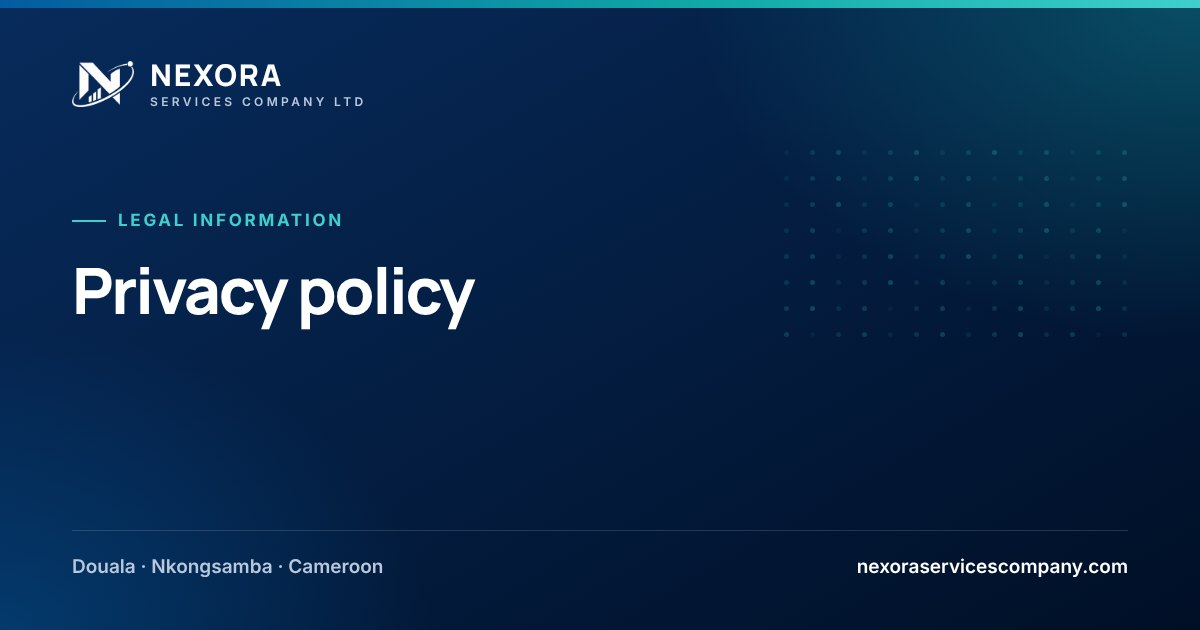
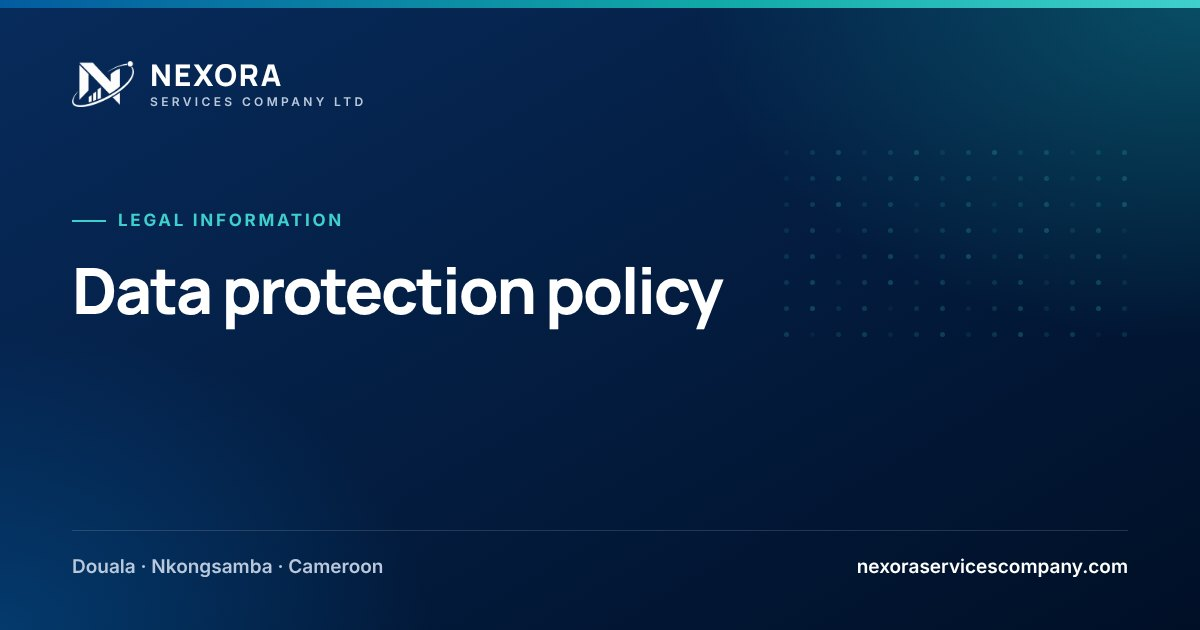
Add data protection, confidentiality and cookie policies, and a one-time cookie notice
Claude-Session: https://claude.ai/code/session_012e1XfnthsJcVzEqrUws3S3

Changed region(s): [[0.0617, 0.4222, 0.6167, 0.5127]]

diff --git a/src/i18n/policies.ts b/src/i18n/policies.ts
@@ -1,0 +1,114 @@
+// Data protection, confidentiality and cookie policies, shown by Prose.astro.
+// Drafts written for the website on 26 October 2026; to be reviewed by a Cameroonian lawyer like NXR-DOC-009 to 016.
+import type { Lang } from './content';
+
+export interface PolicySection { h: string; p?: string[]; list?: string[] }
+export interface Policy { meta: { title: string; description: string }; eyebrow: string; title: string; updated: string; intro?: string; sections: PolicySection[] }
+
+const fr: Record<'privacy' | 'confidentiality' | 'cookies', Policy> = {
+  privacy: {
+    meta: { title: 'Politique de protection des données personnelles · Nexora Services Company Ltd', description: 'Quelles données personnelles Nexora collecte, pourquoi, avec qui elles sont partagées, combien de temps elles sont conservées et comment exercer vos droits.' },
+    eyebrow: 'Informations légales',
+    title: 'Politique de protection des données personnelles',
+    updated: 'Référence NXR-DOC-014 · version 1.1 · mise à jour le 26 octobre 2026',
+    sections: [
+      { h: 'Qui est responsable de vos données', p: ['NEXORA SERVICES COMPANY LTD, RCCM CM-DLA-02-2026-B12-00851, NIU M092618954315E, dont le siège social est situé à Bonabéri, Douala, Cameroun (« Nexora », « nous »), est responsable du traitement des données personnelles qu’elle collecte sur ce site, au comptoir et dans le cadre de ses services.', 'Pour toute question ou demande : contact@nexoraservicescompany.com, ou par courrier adressé au Gérant au siège social.'] },
+      { h: 'Cadre légal', p: ['Nous traitons les données personnelles conformément à la loi camerounaise relative à la protection des données à caractère personnel, à la loi n° 2010/012 du 21 décembre 2010 relative à la cybersécurité et à la cybercriminalité, et aux autres textes applicables. Lorsque nous travaillons avec un partenaire situé dans l’Union européenne, ce partenaire applique en outre le Règlement général sur la protection des données (RGPD).'] },
+      { h: 'Les données collectées sur ce site', list: ['Formulaire « Démarrer une demande » : le besoin et les services choisis, la destination et la période de voyage, le nombre de voyageurs, votre situation, votre profil ou la taille de votre équipe, votre ville, vos délais, votre nom, votre organisation, votre téléphone, votre e-mail, le moyen de contact préféré et votre message.', 'Formulaire de contact : votre nom, votre organisation, votre e-mail, votre téléphone si vous le donnez, le sujet et votre message.', 'Boutons WhatsApp : le message s’ouvre dans votre application WhatsApp ; nous recevons ce que vous choisissez d’envoyer, avec votre numéro.', 'Outils du site : les cases cochées de la liste des documents et la conversation avec l’assistant restent dans votre navigateur et ne nous sont pas transmises (voir la politique relative aux cookies).'], p: ['Nous ne vous demandons jamais votre passeport, vos relevés bancaires ou d’autres pièces sensibles via ce site.'] },
+      { h: 'Les données traitées dans nos services', list: ['les coordonnées des représentants de nos clients ;', 'des informations sur les salariés d’un client lorsque nous fournissons des services RH ;', 'des informations sur les voyageurs : nom, date de naissance, nationalité, passeport, coordonnées et itinéraires ;', 'les documents des demandeurs de visa : état civil, documents professionnels, financiers et de voyage ;', 'les documents confiés au Service Desk pour impression, numérisation, saisie ou candidature en ligne ;', 'les informations de paiement et de facturation.'] },
+      { h: 'Pourquoi et sur quelle base', list: ['répondre à votre demande et préparer une proposition : mesures précontractuelles prises à votre demande ;', 'fournir les services convenus : exécution du contrat ;', 'tenir notre comptabilité et respecter nos obligations fiscales et légales : obligation légale ;', 'assurer la sécurité de nos systèmes et améliorer nos services : intérêt légitime ;', 'vous envoyer des informations sur nos services : uniquement avec votre consentement, retirable à tout moment.'], p: ['Pour les données sensibles, comme les informations de santé figurant dans un dossier de visa, nous demandons votre consentement exprès.'] },
+      { h: 'Avec qui nous les partageons', list: ['les compagnies aériennes, notre partenaire GDS agréé, les hôtels et les assureurs, pour les réservations ;', 'nos partenaires agréés de mobilité, uniquement pour un dossier que vous nous avez demandé de préparer ;', 'nos prestataires d’hébergement, de messagerie, de comptabilité et d’informatique, tenus à la confidentialité ;', 'les autorités publiques, lorsque la loi l’exige.'], p: ['Nous ne déposons aucun document auprès d’une ambassade ou d’un consulat en votre nom sans votre accord écrit. Nous ne vendons ni ne louons jamais de données personnelles.'] },
+      { h: 'Transferts hors du Cameroun', p: ['Ce site est hébergé par Netlify, Inc. aux États-Unis, et les formulaires y sont enregistrés. La réservation de voyages internationaux et la préparation de dossiers pour l’étranger impliquent aussi la communication de données à des compagnies aériennes, systèmes de réservation et partenaires situés hors du Cameroun. Nous ne transmettons que ce qui est nécessaire, à des prestataires reconnus, et prenons des mesures raisonnables pour protéger ces données.'] },
+      { h: 'Comment nous les protégeons', list: ['accès limité aux personnes qui en ont besoin ;', 'mots de passe robustes, gestionnaire de mots de passe et vérification en deux étapes ;', 'ordinateurs chiffrés et sauvegardés, dossiers papier sous clé ;', 'aucune conservation des passeports originaux ;', 'fichiers du Service Desk supprimés après chaque travail, sauf demande contraire de votre part ;', 'aucune donnée client dans un outil d’IA public sans accord et garanties appropriées, et une revue humaine de tout travail assisté par l’IA ;', 'un personnel tenu à la confidentialité et à notre Code de conduite.'] },
+      { h: 'Durée de conservation', list: ['demandes reçues via le site sans suite : 12 mois au maximum ;', 'documents des clients : la durée de la mission, puis restitution ou suppression ;', 'copies des documents de visa : supprimées dans les 90 jours suivant la fin du service, sauf demande contraire de votre part ;', 'pièces comptables et factures : la durée imposée par la loi comptable et fiscale.'] },
+      { h: 'Vos droits', p: ['Vous pouvez demander l’accès à vos données, leur rectification, leur effacement ou la limitation de leur utilisation, vous opposer à leur traitement et retirer votre consentement à tout moment. Écrivez-nous à contact@nexoraservicescompany.com en précisant votre demande ; nous pourrons vous demander de justifier de votre identité. Nous répondons dans un délai de 30 jours.', 'Si vous estimez que vos droits ne sont pas respectés, vous pouvez saisir l’autorité camerounaise compétente en matière de protection des données personnelles.'] },
+      { h: 'Mineurs', p: ['Nos services s’adressent aux adultes. Pour un projet d’études concernant une personne mineure, nous travaillons avec ses parents ou son représentant légal, qui donnent leur accord écrit.'] },
+      { h: 'Incidents et modifications', p: ['Si un incident de sécurité affecte vos données, nous vous en informons rapidement et le notifions aux autorités lorsque la loi l’exige. Nous pouvons mettre à jour cette politique ; la version en vigueur et sa date sont publiées sur cette page.'] },
+    ],
+  },
+  confidentiality: {
+    meta: { title: 'Politique de confidentialité des informations clients · Nexora Services Company Ltd', description: 'Comment Nexora protège les informations commerciales, financières et personnelles que ses clients lui confient.' },
+    eyebrow: 'Informations légales',
+    title: 'Politique de confidentialité des informations clients',
+    updated: 'Version 1.0 · en vigueur depuis le 26 octobre 2026',
+    sections: [
+      { h: 'Notre engagement', p: ['Nos clients nous confient des informations sur leur entreprise, leurs équipes, leurs finances ou leur projet personnel. Nous les traitons avec la même discrétion qu’un cabinet de conseil : elles servent uniquement à la mission pour laquelle elles nous ont été remises.'] },
+      { h: 'Ce qui est confidentiel', list: ['les informations sur votre activité, votre stratégie, vos clients et vos fournisseurs ;', 'vos données financières, comptables et fiscales ;', 'les dossiers du personnel, les rémunérations et les évaluations ;', 'les documents de voyage, d’études et de visa ;', 'nos échanges, propositions et livrables ;', 'les documents confiés au Service Desk.'], p: ['Toute information non publique que vous nous transmettez est considérée comme confidentielle, qu’elle soit marquée ou non.'] },
+      { h: 'Comment nous la protégeons', list: ['utilisation uniquement pour la mission convenue ;', 'accès réservé aux personnes de Nexora qui travaillent sur votre dossier ;', 'aucune communication à un tiers sans votre accord écrit ;', 'aucune mention de votre nom comme référence sans votre autorisation ;', 'aucune information confidentielle dans un outil d’IA non approuvé ;', 'stockage sur des outils sécurisés, dossiers papier sous clé.'] },
+      { h: 'Nos équipes et partenaires', p: ['Nos associés, salariés et collaborateurs sont tenus au secret par leur contrat et par notre Code de conduite. Lorsqu’un partenaire agréé ou un sous-traitant doit intervenir, il ne reçoit que les informations nécessaires et s’engage à les protéger dans les mêmes conditions.'] },
+      { h: 'Accord de confidentialité', p: ['Nous signons volontiers un accord de confidentialité avant tout échange d’informations sensibles. Demandez-le lors de votre premier contact.'] },
+      { h: 'Conflits d’intérêts', p: ['Si une mission risque de créer un conflit d’intérêts avec un autre client ou avec nos dirigeants, nous vous en informons avant de commencer et nous ne travaillons qu’avec votre accord.'] },
+      { h: 'Limites', p: ['L’obligation de confidentialité ne s’applique pas aux informations déjà publiques, ni à celles que la loi, une décision de justice ou une autorité nous oblige à communiquer. Dans ce cas, nous ne transmettons que le strict nécessaire et vous prévenons lorsque la loi le permet.'] },
+      { h: 'Fin de mission', p: ['À la fin de la mission, nous vous restituons vos documents ou les supprimons, selon votre choix, à l’exception de ce que la loi nous oblige à conserver. L’obligation de confidentialité continue après la fin de la mission.'] },
+      { h: 'Un incident ?', p: ['Si vous pensez qu’une information confidentielle a été divulguée, écrivez-nous à contact@nexoraservicescompany.com. Nous enquêtons, prenons les mesures nécessaires et vous tenons informé.'] },
+    ],
+  },
+  cookies: {
+    meta: { title: 'Politique relative aux cookies · Nexora Services Company Ltd', description: 'Ce que le site de Nexora enregistre dans votre navigateur, et pourquoi : uniquement le nécessaire, sans publicité ni suivi.' },
+    eyebrow: 'Informations légales',
+    title: 'Politique relative aux cookies',
+    updated: 'Version 1.0 · en vigueur depuis le 26 octobre 2026',
+    sections: [
+      { h: 'En bref', p: ['Ce site n’utilise ni cookies publicitaires, ni outils de suivi, ni mesure d’audience, ni réseaux sociaux intégrés. Il enregistre seulement quelques informations dans votre navigateur pour fonctionner correctement. Rien de tout cela ne nous est transmis.'] },
+      { h: 'Ce que le site enregistre', list: ['Votre choix concernant ce message (« nexora-consent ») : pour ne pas vous le montrer à chaque visite. Conservé jusqu’à ce que vous effaciez les données de votre navigateur.', 'Les pièces cochées dans la liste des documents de voyage (« nexora-ck-… ») : pour retrouver votre progression. Conservées dans votre navigateur jusqu’à ce que vous les effaciez.', 'La conversation avec l’assistant d’aide : effacée à la fermeture de l’onglet.'] },
+      { h: 'Services tiers', p: ['Les polices de caractères sont hébergées sur notre propre site. Les boutons WhatsApp ouvrent WhatsApp seulement lorsque vous cliquez dessus ; WhatsApp applique alors sa propre politique. Notre hébergeur, Netlify, peut enregistrer des journaux techniques (adresse IP, page demandée) pour la sécurité et le bon fonctionnement du site.'] },
+      { h: 'Gérer ces informations', p: ['Vous pouvez effacer à tout moment les données enregistrées par ce site dans les réglages de votre navigateur (rubrique « Cookies et données de site »). Le site continue de fonctionner ; le message d’information réapparaîtra simplement à votre prochaine visite.'] },
+      { h: 'Évolutions', p: ['Si nous ajoutons un jour un outil de mesure d’audience ou un autre service non indispensable, nous mettrons à jour cette page et vous demanderons votre accord avant de l’activer.'] },
+    ],
+  },
+};
+
+const en: typeof fr = {
+  privacy: {
+    meta: { title: 'Data protection policy · Nexora Services Company Ltd', description: 'What personal data Nexora collects, why, who it is shared with, how long it is kept and how to exercise your rights.' },
+    eyebrow: 'Legal information',
+    title: 'Data protection policy',
+    updated: 'Reference NXR-DOC-014 · version 1.1 · updated 26 October 2026',
+    sections: [
+      { h: 'Who is responsible for your data', p: ['NEXORA SERVICES COMPANY LTD, RCCM CM-DLA-02-2026-B12-00851, NIU M092618954315E, registered office in Bonabéri, Douala, Cameroon ("Nexora", "we"), is the controller of the personal data it collects on this website, at its counter and in providing its services.', 'For any question or request: contact@nexoraservicescompany.com, or by post to the Statutory Manager at the registered office.'] },
+      { h: 'Legal framework', p: ['We handle personal data in line with Cameroon’s law on the protection of personal data, Law No. 2010/012 of 21 December 2010 on cybersecurity and cybercrime, and other applicable rules. When we work with a partner based in the European Union, that partner also applies the General Data Protection Regulation (GDPR).'] },
+      { h: 'Data collected on this website', list: ['"Start a request" form: your need and chosen services, destination and travel period, number of travellers, your situation, your profile or team size, your city, your timing, your name, organisation, phone, email, preferred contact channel and message.', 'Contact form: your name, organisation, email, phone if you give it, topic and message.', 'WhatsApp buttons: the message opens in your WhatsApp app; we receive what you choose to send, with your number.', 'Site tools: the items you tick in the document checklist and your conversation with the assistant stay in your browser and are not sent to us (see the cookie policy).'], p: ['We never ask for your passport, bank statements or other sensitive documents through this website.'] },
+      { h: 'Data handled in our services', list: ['contact details of client representatives;', 'information about a client’s employees when we provide HR services;', 'traveller information: name, date of birth, nationality, passport details, contact details and itineraries;', 'visa applicants’ documents: civil-status, professional, financial and travel documents;', 'documents handed to the Service Desk for printing, scanning, typing or online applications;', 'payment and billing information.'] },
+      { h: 'Why, and on what basis', list: ['answering your request and preparing a proposal: steps taken at your request before a contract;', 'providing the agreed services: performance of the contract;', 'keeping our accounts and meeting tax and legal duties: legal obligation;', 'keeping our systems secure and improving our services: legitimate interest;', 'sending you information about our services: only with your consent, which you can withdraw at any time.'], p: ['For sensitive data, such as health information in a visa file, we ask for your explicit consent.'] },
+      { h: 'Who we share it with', list: ['airlines, our licensed GDS partner, hotels and insurers, to make and manage bookings;', 'our licensed mobility partners, only for a file you asked us to prepare;', 'our hosting, email, accounting and IT providers, bound by confidentiality;', 'public authorities, where the law requires.'], p: ['We never submit documents to an embassy or consulate on your behalf without your written agreement. We never sell or rent personal data.'] },
+      { h: 'Transfers outside Cameroon', p: ['This website is hosted by Netlify, Inc. in the United States, where form submissions are stored. International travel bookings and files prepared for other countries also involve sharing data with airlines, booking systems and partners outside Cameroon. We share only what is needed, with recognised providers, and take reasonable steps to protect the data.'] },
+      { h: 'How we protect it', list: ['access limited to people who need it;', 'strong passwords, a password manager and two-step verification;', 'encrypted, backed-up computers and locked paper files;', 'no original client passports are kept;', 'Service Desk files deleted after every job, unless you ask us to keep them;', 'no client data in a public AI tool without consent and safeguards, and human review of all AI-assisted work;', 'staff bound by confidentiality and our Code of Conduct.'] },
+      { h: 'Retention', list: ['website requests that lead to no engagement: 12 months at most;', 'client documents: for the engagement, then returned or deleted;', 'copies of visa documents: deleted within 90 days after the service ends, unless you ask us to keep them;', 'accounting records and invoices: for the period required by accounting and tax law.'] },
+      { h: 'Your rights', p: ['You can ask to access, correct or delete your data, or to restrict its use, object to its processing and withdraw your consent at any time. Write to contact@nexoraservicescompany.com with your request; we may ask you to confirm your identity. We respond within 30 days.', 'If you believe your rights are not respected, you can contact the competent Cameroonian personal data protection authority.'] },
+      { h: 'Minors', p: ['Our services are for adults. For a study project involving a minor, we work with the parents or legal guardian, who give their written agreement.'] },
+      { h: 'Incidents and changes', p: ['If a security incident affects your data, we will inform you promptly and notify the authorities where the law requires. We may update this policy; the current version and its date are published on this page.'] },
+    ],
+  },
+  confidentiality: {
+    meta: { title: 'Client confidentiality policy · Nexora Services Company Ltd', description: 'How Nexora protects the business, financial and personal information its clients entrust to it.' },
+    eyebrow: 'Legal information',
+    title: 'Client confidentiality policy',
+    updated: 'Version 1.0 · effective 26 October 2026',
+    sections: [
+      { h: 'Our commitment', p: ['Clients trust us with information about their business, their teams, their finances or their personal plans. We treat it with the discretion of a consultancy: it is used only for the engagement it was given to us for.'] },
+      { h: 'What is confidential', list: ['information about your business, strategy, customers and suppliers;', 'your financial, accounting and tax data;', 'staff files, pay and appraisals;', 'travel, study and visa documents;', 'our conversations, proposals and deliverables;', 'documents handed to the Service Desk.'], p: ['Any non-public information you give us is treated as confidential, whether or not it is marked as such.'] },
+      { h: 'How we protect it', list: ['used only for the agreed engagement;', 'access limited to the Nexora people working on your file;', 'never shared with a third party without your written agreement;', 'your name is never used as a reference without your permission;', 'no confidential information in an unapproved AI tool;', 'stored on secure tools, paper files under lock.'] },
+      { h: 'Our people and partners', p: ['Our partners, employees and associates are bound to secrecy by their contracts and our Code of Conduct. When a licensed partner or subcontractor needs to be involved, they receive only the information they need and commit to protecting it on the same terms.'] },
+      { h: 'Confidentiality agreement', p: ['We are happy to sign a confidentiality agreement before any sensitive information is exchanged. Ask for it at your first contact.'] },
+      { h: 'Conflicts of interest', p: ['If an engagement could create a conflict of interest with another client or with our directors, we tell you before starting and proceed only with your agreement.'] },
+      { h: 'Limits', p: ['Confidentiality does not cover information that is already public, or information that the law, a court or an authority requires us to disclose. In that case we disclose only what is strictly needed and tell you where the law allows.'] },
+      { h: 'End of the engagement', p: ['At the end of the engagement, we return or delete your documents, as you choose, except what the law requires us to keep. Our duty of confidentiality continues after the engagement ends.'] },
+      { h: 'Something went wrong?', p: ['If you think confidential information has been disclosed, write to contact@nexoraservicescompany.com. We will investigate, take the necessary steps and keep you informed.'] },
+    ],
+  },
+  cookies: {
+    meta: { title: 'Cookie policy · Nexora Services Company Ltd', description: 'What Nexora’s website stores in your browser, and why: only what is needed, with no advertising or tracking.' },
+    eyebrow: 'Legal information',
+    title: 'Cookie policy',
+    updated: 'Version 1.0 · effective 26 October 2026',
+    sections: [
+      { h: 'In short', p: ['This website uses no advertising cookies, no tracking, no audience measurement and no embedded social networks. It only stores a few items in your browser so that it works properly. None of this is sent to us.'] },
+      { h: 'What the website stores', list: ['Your choice on this notice ("nexora-consent"): so we do not show it at every visit. Kept until you clear your browser data.', 'The items you tick in the travel document checklist ("nexora-ck-…"): so you can pick up where you left off. Kept in your browser until you clear them.', 'Your conversation with the help assistant: deleted when you close the tab.'] },
+      { h: 'Third-party services', p: ['Fonts are served from our own website. WhatsApp buttons open WhatsApp only when you click them; WhatsApp’s own policy then applies. Our host, Netlify, may keep technical logs (IP address, page requested) for security and to run the website.'] },
+      { h: 'Managing this information', p: ['You can clear the data this website stores at any time in your browser settings (under "Cookies and site data"). The website keeps working; the notice will simply appear again on your next visit.'] },
+      { h: 'Changes', p: ['If we ever add audience measurement or another non-essential service, we will update this page and ask for your agreement before turning it on.'] },
+    ],
+  },
+};
+
+export const policies: Record<Lang, typeof fr> = { fr, en };

diff --git a/src/i18n/pages.ts b/src/i18n/pages.ts
@@ -203,26 +203,8 @@ const fr = {
       { h: 'Hébergement', p: ['Le site est hébergé par Netlify, Inc., San Francisco, Californie, États-Unis (netlify.com).'] },
       { h: 'Propriété intellectuelle', p: ['Les textes, visuels, logos et la marque Nexora présents sur ce site appartiennent à NEXORA SERVICES COMPANY LTD. Toute reproduction sans autorisation écrite préalable est interdite.'] },
       { h: 'Responsabilité', p: ['Les informations de ce site sont fournies à titre général et peuvent évoluer. Elles ne constituent ni une offre ferme ni un conseil personnalisé. Les conditions de chaque mission sont fixées par écrit avec le client.', 'Nexora ne garantit ni visa, ni emploi, ni permis, ni décision d’immigration. Les services réglementés sont assurés par des partenaires agréés ou après les formalités légales applicables.'] },
-      { h: 'Données personnelles', p: ['Le traitement des données transmises via ce site est décrit dans notre politique de confidentialité.'] },
+      { h: 'Données personnelles', p: ['Le traitement des données transmises via ce site est décrit dans notre politique de protection des données personnelles, et l’usage du stockage de navigateur dans notre politique relative aux cookies.'] },
       { h: 'Droit applicable', p: ['Le présent site est soumis au droit camerounais et aux Actes uniformes de l’OHADA applicables.'] },
-    ],
-  },
-  privacy: {
-    meta: { title: 'Politique de confidentialité · Nexora Services Company Ltd', description: 'Comment Nexora protège les données personnelles qui lui sont confiées.' },
-    eyebrow: 'Informations légales',
-    title: 'Politique de confidentialité',
-    updated: 'Référence NXR-DOC-014 · version 1.0 · en vigueur depuis le 10 octobre 2026',
-    sections: [
-      { h: 'Qui nous sommes', p: ['NEXORA SERVICES COMPANY LTD, RCCM CM-DLA-02-2026-B12-00851, siège social à Bonabéri, Douala, Cameroun (« Nexora », « nous »), est responsable des données personnelles qu’elle collecte dans le cadre de ses services.', 'Vos questions et demandes peuvent être adressées par écrit au Gérant au siège social, ou à contact@nexoraservicescompany.com.'] },
-      { h: 'Ce site internet', p: ['Le formulaire de contact recueille votre nom, votre organisation, votre e-mail, votre téléphone si vous le donnez, le sujet et votre message, uniquement pour répondre à votre demande.', 'Ce site n’utilise ni cookies publicitaires, ni outils de suivi, ni outils de mesure d’audience. Les polices sont hébergées sur notre propre site.'] },
-      { h: 'Les données que nous traitons', list: ['les coordonnées des représentants de nos clients ;', 'des informations sur les salariés d’un client lorsque nous fournissons des services RH ;', 'des informations sur les voyageurs : nom, date de naissance, nationalité, passeport, coordonnées et itinéraires ;', 'les documents des demandeurs de visa : état civil, documents professionnels, financiers et de voyage ;', 'les informations de paiement et de facturation.'] },
-      { h: 'Pourquoi nous les utilisons', list: ['fournir les services convenus avec vous ;', 'respecter nos obligations légales, notamment comptables et fiscales ;', 'gérer notre relation avec vous et assurer la sécurité de nos systèmes ;', 'vous envoyer des informations sur nos services, uniquement si vous l’avez accepté.'], p: ['Nous demandons votre consentement lorsque la loi l’exige, en particulier pour les informations sensibles.'] },
-      { h: 'Avec qui nous les partageons', list: ['les compagnies aériennes, notre partenaire GDS agréé, les hôtels et les assureurs, pour les réservations ;', 'nos prestataires informatiques, d’hébergement, comptables et autres, tenus à la confidentialité ;', 'les autorités publiques, lorsque la loi l’exige.'], p: ['Nous ne déposons pas de documents auprès des ambassades ou consulats en votre nom sans accord écrit. Nous ne vendons jamais de données personnelles.'] },
-      { h: 'Transferts hors du Cameroun', p: ['La réservation de voyages internationaux implique la communication de données à des compagnies aériennes et systèmes de réservation situés hors du Cameroun. Certains de nos outils, dont l’hébergement de ce site, peuvent stocker des données hors du Cameroun. Nous choisissons des prestataires reconnus et prenons des mesures raisonnables pour protéger les données.'] },
-      { h: 'Comment nous les protégeons', list: ['accès limité aux personnes qui en ont besoin ;', 'mots de passe robustes, gestionnaire de mots de passe et vérification en deux étapes ;', 'ordinateurs chiffrés et sauvegardés, dossiers papier sous clé ;', 'aucune conservation des passeports originaux ;', 'aucune donnée client dans des outils publics d’IA sans accord et garanties appropriées, et une revue humaine de tout travail assisté par l’IA ;', 'un personnel tenu à la confidentialité et à notre Code de conduite.'] },
-      { h: 'Durée de conservation', p: ['Nous conservons les données uniquement le temps nécessaire au service et à nos obligations légales. Les copies des documents de visa sont supprimées dans les 90 jours suivant la fin du service, sauf demande contraire de votre part. Les données RH des clients sont restituées ou supprimées à la fin de la mission.'] },
-      { h: 'Vos droits', p: ['Sous réserve de la loi applicable, vous pouvez demander l’accès à vos données, leur rectification ou leur suppression, vous opposer à leur utilisation et retirer votre consentement à tout moment. Nous répondons dans un délai de 30 jours.'] },
-      { h: 'Incidents et modifications', p: ['Si un incident de sécurité affecte vos données, nous vous en informons rapidement et le notifions aux autorités lorsque la loi l’exige. Nous pouvons mettre à jour cette politique ; la version en vigueur est publiée sur cette page.'] },
     ],
   },
   notFound: { title: 'Page introuvable', text: 'Cette page n’existe pas ou a été déplacée.', back: 'Retour à l’accueil' },
@@ -429,26 +411,8 @@ const en: typeof fr = {
       { h: 'Hosting', p: ['This website is hosted by Netlify, Inc., San Francisco, California, United States (netlify.com).'] },
       { h: 'Intellectual property', p: ['The text, visuals, logos and the Nexora brand on this website belong to NEXORA SERVICES COMPANY LTD. Reproduction without prior written permission is prohibited.'] },
       { h: 'Liability', p: ['Information on this website is general and may change. It is neither a binding offer nor personalised advice. The terms of each engagement are agreed in writing with the client.', 'Nexora does not guarantee visas, jobs, permits or immigration outcomes. Regulated services are delivered through licensed partners or only after the applicable legal formalities.'] },
-      { h: 'Personal data', p: ['How we handle data sent through this website is described in our privacy policy.'] },
+      { h: 'Personal data', p: ['How we handle data sent through this website is described in our data protection policy, and browser storage in our cookie policy.'] },
       { h: 'Governing law', p: ['This website is governed by Cameroonian law and the applicable OHADA Uniform Acts.'] },
-    ],
-  },
-  privacy: {
-    meta: { title: 'Privacy policy · Nexora Services Company Ltd', description: 'How Nexora protects the personal data entrusted to it.' },
-    eyebrow: 'Legal information',
-    title: 'Privacy policy',
-    updated: 'Reference NXR-DOC-014 · version 1.0 · effective 10 October 2026',
-    sections: [
-      { h: 'Who we are', p: ['NEXORA SERVICES COMPANY LTD, RCCM CM-DLA-02-2026-B12-00851, registered office in Bonabéri, Douala, Cameroon ("Nexora", "we"), is responsible for the personal data it collects in providing its services.', 'Questions and requests can be sent in writing to the Statutory Manager at the registered office, or to contact@nexoraservicescompany.com.'] },
-      { h: 'This website', p: ['The contact form collects your name, organisation, email, phone if you give it, topic and message, only to answer your request.', 'This website uses no advertising cookies, no tracking and no audience-measurement tools. Fonts are served from our own site.'] },
-      { h: 'Data we handle', list: ['contact details of client representatives;', 'information about a client’s employees when we provide HR services;', 'traveller information: name, date of birth, nationality, passport details, contact details and itineraries;', 'visa applicants’ documents: civil-status, professional, financial and travel documents;', 'payment and billing information.'] },
-      { h: 'Why we use it', list: ['to provide the services agreed with you;', 'to meet our legal obligations, including accounting and tax;', 'to manage our relationship with you and keep our systems secure;', 'to send you information about our services, only if you agreed.'], p: ['We ask for your consent where the law requires it, especially for sensitive information.'] },
-      { h: 'Who we share it with', list: ['airlines, our licensed GDS partner, hotels and insurers, to make and manage bookings;', 'our IT, hosting, accounting and other providers, bound by confidentiality;', 'public authorities, where the law requires.'], p: ['We do not submit documents to embassies or consulates on your behalf without written agreement. We never sell personal data.'] },
-      { h: 'Transfers outside Cameroon', p: ['International travel bookings involve sharing traveller data with airlines and booking systems outside Cameroon. Some of our tools, including this website’s hosting, may store data outside Cameroon. We choose recognised providers and take reasonable steps to protect the data.'] },
-      { h: 'How we protect it', list: ['access limited to people who need it;', 'strong passwords, a password manager and two-step verification;', 'encrypted, backed-up computers and locked paper files;', 'no original client passports are kept;', 'no client data in public AI tools without consent and safeguards, and human review of all AI-assisted work;', 'staff bound by confidentiality and our Code of Conduct.'] },
-      { h: 'Retention', p: ['We keep data only as long as the service and our legal obligations require. Copies of visa documents are deleted within 90 days after the service ends unless you ask us to keep them longer. Client HR data is returned or deleted at the end of the engagement.'] },
-      { h: 'Your rights', p: ['Subject to applicable law, you can ask to access, correct or delete your data, object to its use and withdraw consent at any time. We respond within 30 days.'] },
-      { h: 'Incidents and changes', p: ['If a security incident affects your data, we will inform you promptly and notify the authorities where the law requires. We may update this policy; the current version is published on this page.'] },
     ],
   },
   notFound: { title: 'Page not found', text: 'This page does not exist or has moved.', back: 'Back to home' },

diff --git a/src/lib/assistant.ts b/src/lib/assistant.ts
@@ -55,7 +55,8 @@ const defs: IntentDef[] = [
   { id: 'request', kw: ['demande', 'commencer', 'demarrer', 'start', 'begin', 'besoin', 'need', 'aide', 'help me'], a: tx('Le plus simple est notre parcours guidé : quatre questions, puis vous envoyez votre demande par WhatsApp ou par formulaire.', 'The easiest way is our guided request: four questions, then you send it by WhatsApp or through the form.'), acts: [A.start()], chips: ['human'] },
   { id: 'about', kw: ['qui etes', 'qui est', 'about', 'who are you', 'fondateur', 'fondateurs', 'founder', 'founders', 'directeur', 'director', 'equipe', 'team'], a: tx('NEXORA SERVICES COMPANY LTD est un cabinet de transformation des entreprises basé à Douala et Nkongsamba, dirigé par ses fondateurs, Achu Ngando Fabrice (directeur général) et Mancho Tebo Salif (développement commercial et partenariats).', 'NEXORA SERVICES COMPANY LTD is a business transformation consultancy based in Douala and Nkongsamba, led by its founders, Achu Ngando Fabrice (Managing Director) and Mancho Tebo Salif (Business Development and Partnerships).'), acts: [A.page('about', 'À propos de Nexora', 'About Nexora')], chips: ['services'] },
   { id: 'ai', kw: ['ia', 'intelligence artificielle', 'ai', 'artificial intelligence', 'chatgpt', 'robot', 'bot'], a: tx('Nous utilisons l’IA quand elle fait gagner du temps sans risque, et aidons les organisations à l’adopter de façon responsable. Tout travail assisté par l’IA est revu par une personne responsable. Et oui, je suis moi-même un assistant automatique : pour un conseil personnalisé, un conseiller vous répond sur WhatsApp.', 'We use AI where it saves time safely, and help organisations adopt it responsibly. All AI-assisted work is reviewed by a responsible person. And yes, I am an automated assistant myself: for personal advice, an advisor answers on WhatsApp.'), acts: [A.wa], chips: ['business'] },
-  { id: 'confidential', kw: ['confidentiel', 'confidentialite', 'confidential', 'donnees', 'data', 'privacy', 'nda', 'secret'], a: tx('Vos informations restent confidentielles : accord de confidentialité si vous le souhaitez, accès limité aux documents et restitution des données en fin de mission.', 'Your information stays confidential: a confidentiality agreement if you wish, limited document access and data returned at the end of the engagement.'), acts: [A.page('privacy', 'Politique de confidentialité', 'Privacy policy')] },
+  { id: 'confidential', kw: ['confidentiel', 'confidentialite', 'confidential', 'confidentiality', 'donnees', 'donnees personnelles', 'data', 'personal data', 'protection des donnees', 'data protection', 'privacy', 'rgpd', 'gdpr', 'nda', 'secret'], a: tx('Vos informations restent confidentielles : elles servent uniquement à votre mission, l’accès est limité aux personnes qui y travaillent, nous signons un accord de confidentialité si vous le souhaitez et nous restituons ou supprimons vos documents à la fin. Vous pouvez demander l’accès à vos données ou leur suppression à tout moment.', 'Your information stays confidential: it is used only for your engagement, access is limited to the people working on it, we sign a confidentiality agreement if you wish, and we return or delete your documents at the end. You can ask to access or delete your data at any time.'), acts: [A.page('confidentiality', 'Politique de confidentialité', 'Confidentiality policy'), A.page('privacy', 'Protection des données', 'Data protection policy')] },
+  { id: 'cookies', kw: ['cookie', 'cookies', 'traceur', 'traceurs', 'tracking', 'suivi', 'pistage'], a: tx('Ce site n’utilise ni cookies publicitaires ni outils de suivi. Il garde seulement dans votre navigateur votre choix sur le message d’information, votre progression dans la liste des documents et cette conversation, qui s’efface à la fermeture de l’onglet.', 'This website uses no advertising cookies or tracking. It only keeps in your browser your choice on the notice, your checklist progress and this conversation, which is deleted when you close the tab.'), acts: [A.page('cookies', 'Politique relative aux cookies', 'Cookie policy')] },
   { id: 'language', kw: ['anglais', 'francais', 'english', 'french', 'langue', 'language', 'bilingue', 'bilingual'], a: tx('Nous travaillons en français et en anglais, les deux langues officielles du Cameroun.', 'We work in French and English, Cameroon’s two official languages.') },
   { id: 'insights', kw: ['guide', 'guides', 'article', 'articles', 'ressources', 'resources', 'insights', 'conseils', 'tips', 'blog'], a: tx('Nos guides pratiques couvrent les systèmes de gestion des PME, les bases RH et les erreurs à éviter dans un dossier de visa d’études.', 'Our practical guides cover SME management systems, HR foundations and mistakes to avoid in a study visa file.'), acts: [A.page('insights', 'Voir les ressources', 'See the insights')] },
   { id: 'human', kw: ['humain', 'conseiller', 'conseillere', 'agent', 'personne', 'quelqu un', 'human', 'person', 'advisor', 'adviser', 'someone', 'parler', 'talk', 'speak'], a: tx('Bien sûr. Un conseiller Nexora vous répond directement sur WhatsApp, ou par téléphone au ' + company.phone + '.', 'Of course. A Nexora advisor answers you directly on WhatsApp, or by phone on ' + company.phone + '.'), acts: [A.wa] },

diff --git a/src/styles/global.css b/src/styles/global.css
@@ -313,7 +313,7 @@ a { color: var(--blue); }
 .footer-h { color: var(--white); font: 700 .78rem/1 var(--body); letter-spacing: .16em; text-transform: uppercase; margin-bottom: 8px; }
 .footer-col a { color: var(--on-navy); text-decoration: none; overflow-wrap: anywhere; }
 .footer-col a:hover { color: var(--teal-2); }
-.footer-bottom { display: flex; flex-wrap: wrap; justify-content: space-between; gap: 12px 32px; padding-top: 28px; font-size: .82rem; color: #8597b1; font-variant-numeric: tabular-nums; }
+.footer-bottom { display: flex; flex-wrap: wrap; justify-content: space-between; gap: 12px 32px; padding-top: 28px; padding-bottom: 84px; font-size: .82rem; color: #8597b1; font-variant-numeric: tabular-nums; }
 @media (max-width: 900px) { .footer-top { grid-template-columns: 1fr 1fr; } .footer-brand { grid-column: 1 / -1; } }
 @media (max-width: 480px) { .footer-top { grid-template-columns: 1fr; } }
 
@@ -613,7 +613,7 @@ a { color: var(--blue); }
 @media (max-width: 760px) { .prose-block { grid-template-columns: 1fr; } }
 
 .footer-brand .btn { justify-self: start; }
-.footer-legal { display: flex; gap: 20px; }
+.footer-legal { display: flex; flex-wrap: wrap; gap: 8px 20px; }
 .footer-legal a { color: #8597b1; text-decoration: none; }
 .footer-legal a:hover { color: var(--teal-2); }
 
@@ -1153,3 +1153,23 @@ td.g-t .m-dot { background: #e0a43a; box-shadow: 0 0 0 5px rgba(224,164,58,.16);
 .wz-desk a { color: var(--teal-dark); font-weight: 700; }
 .nav-desktop .mega-desk { border-top: 1px solid rgba(255,255,255,.08); border-radius: 0 0 12px 12px; margin-top: 4px; }
 @media (prefers-reduced-motion: reduce) { .js .ticket-ok { animation: none; opacity: 1; transform: none; } }
+
+/* v0.9 cookie notice */
+.consent-bar { position: fixed; left: 20px; bottom: 20px; z-index: 80; width: min(460px, calc(100vw - 40px)); display: grid; gap: 16px; padding: 20px 22px; border-radius: 18px; background: rgba(0,15,38,.97); color: var(--white); border: 1px solid rgba(255,255,255,.14); box-shadow: 0 30px 70px -24px rgba(0,0,0,.75); backdrop-filter: blur(12px); animation: consent-in .5s var(--ease) both; }
+.consent-bar[hidden] { display: none; }
+.consent-bar-h { font: 700 1.02rem/1.3 var(--display); margin-bottom: 6px; }
+.consent-bar-txt p { color: var(--on-navy); font-size: .9rem; line-height: 1.55; }
+.consent-bar-txt .consent-bar-h { color: var(--white); }
+.consent-bar-links { display: flex; flex-wrap: wrap; gap: 4px 18px; margin-top: 8px; }
+.consent-bar-links a { color: var(--teal-2); font-weight: 650; font-size: .86rem; }
+.consent-bar .btn { justify-self: start; min-height: 44px; padding-inline: 26px; }
+.consent-bye { animation: consent-out .35s var(--ease) both; }
+@keyframes consent-in { from { opacity: 0; transform: translateY(18px); } }
+@keyframes consent-out { to { opacity: 0; transform: translateY(18px); } }
+@media (max-width: 760px) {
+  .consent-bar { left: 8px; right: 8px; bottom: 8px; width: auto; padding: 18px; }
+  .consent-bar .btn { justify-self: stretch; }
+  .consent-open .wa-fab, .consent-open .nx-bot { opacity: 0; pointer-events: none; }
+}
+@media (prefers-reduced-motion: reduce) { .consent-bar, .consent-bye { animation: none; } }
+@media print { .consent-bar { display: none !important; } }

diff --git a/src/i18n/content.ts b/src/i18n/content.ts
@@ -192,7 +192,7 @@ const fr = {
     tagline: 'Des systèmes plus solides. Des entreprises plus performantes. Une croissance durable.',
     cols: { services: 'Expertises', company: 'Entreprise', offices: 'Bureaux' },
     companyLinks: [{ key: 'approach', label: 'Notre approche' }, { key: 'clients', label: 'Nos clients' }, { key: 'insights', label: 'Ressources' }, { key: 'about', label: 'À propos' }, { key: 'contact', label: 'Contact' }] as { key: PageKey; label: string }[],
-    legalLinks: [{ key: 'legal', label: 'Mentions légales' }, { key: 'privacy', label: 'Confidentialité' }] as { key: PageKey; label: string }[],
+    legalLinks: [{ key: 'legal', label: 'Mentions légales' }, { key: 'privacy', label: 'Protection des données' }, { key: 'confidentiality', label: 'Confidentialité' }, { key: 'cookies', label: 'Cookies' }] as { key: PageKey; label: string }[],
     offices: ['Bonabéri, Douala (siège)', 'La Piste, Nkongsamba'],
     legal: 'RCCM CM-DLA-02-2026-B12-00851 · NIU M092618954315E',
     rights: 'Tous droits réservés.',
@@ -343,7 +343,7 @@ const en: typeof fr = {
     tagline: 'Stronger Systems. Smarter Business. Sustainable Growth.',
     cols: { services: 'Expertise', company: 'Company', offices: 'Offices' },
     companyLinks: [{ key: 'approach', label: 'Our approach' }, { key: 'clients', label: 'Who we serve' }, { key: 'insights', label: 'Insights' }, { key: 'about', label: 'About' }, { key: 'contact', label: 'Contact' }] as { key: PageKey; label: string }[],
-    legalLinks: [{ key: 'legal', label: 'Legal notice' }, { key: 'privacy', label: 'Privacy' }] as { key: PageKey; label: string }[],
+    legalLinks: [{ key: 'legal', label: 'Legal notice' }, { key: 'privacy', label: 'Data protection' }, { key: 'confidentiality', label: 'Confidentiality' }, { key: 'cookies', label: 'Cookies' }] as { key: PageKey; label: string }[],
     offices: ['Bonabéri, Douala (registered office)', 'La Piste, Nkongsamba'],
     legal: 'RCCM CM-DLA-02-2026-B12-00851 · NIU M092618954315E',
     rights: 'All rights reserved.',

diff --git a/src/i18n/start.ts b/src/i18n/start.ts
@@ -77,7 +77,7 @@ const fr = {
   channels: [{ v: 'whatsapp', label: 'WhatsApp' }, { v: 'call', label: 'Appel' }, { v: 'email', label: 'E-mail' }] as Choice[],
   message: 'Autre précision (facultatif)',
   consent: "J'accepte que Nexora utilise ces informations pour répondre à ma demande.",
-  privacy: 'Politique de confidentialité',
+  privacy: 'Politique de protection des données',
   q5: { title: 'Vérifiez et envoyez', hint: 'Choisissez le canal qui vous convient. Les deux arrivent chez la même équipe.' },
   sendWa: 'Envoyer sur WhatsApp', sendForm: 'Envoyer par formulaire',
   waHint: 'WhatsApp s’ouvre avec votre message déjà rédigé : il ne reste qu’à appuyer sur Envoyer.',
@@ -166,7 +166,7 @@ const en: typeof fr = {
   channels: [{ v: 'whatsapp', label: 'WhatsApp' }, { v: 'call', label: 'Phone call' }, { v: 'email', label: 'Email' }],
   message: 'Anything else (optional)',
   consent: 'I agree that Nexora may use this information to answer my request.',
-  privacy: 'Privacy policy',
+  privacy: 'Data protection policy',
   q5: { title: 'Review and send', hint: 'Choose the channel that suits you. Both reach the same team.' },
   sendWa: 'Send on WhatsApp', sendForm: 'Send through the form',
   waHint: 'WhatsApp opens with your message already written: just press Send.',

diff --git a/src/i18n/routes.ts b/src/i18n/routes.ts
@@ -16,7 +16,9 @@ export const routes = {
   contact: { fr: '/fr/contact/', en: '/en/contact/' },
   start: { fr: '/fr/demarrer/', en: '/en/get-started/' },
   legal: { fr: '/fr/mentions-legales/', en: '/en/legal-notice/' },
-  privacy: { fr: '/fr/confidentialite/', en: '/en/privacy/' },
+  privacy: { fr: '/fr/protection-des-donnees/', en: '/en/data-protection/' },
+  confidentiality: { fr: '/fr/confidentialite/', en: '/en/confidentiality/' },
+  cookies: { fr: '/fr/cookies/', en: '/en/cookies/' },
 } as const;
 
 export type PageKey = keyof typeof routes;
